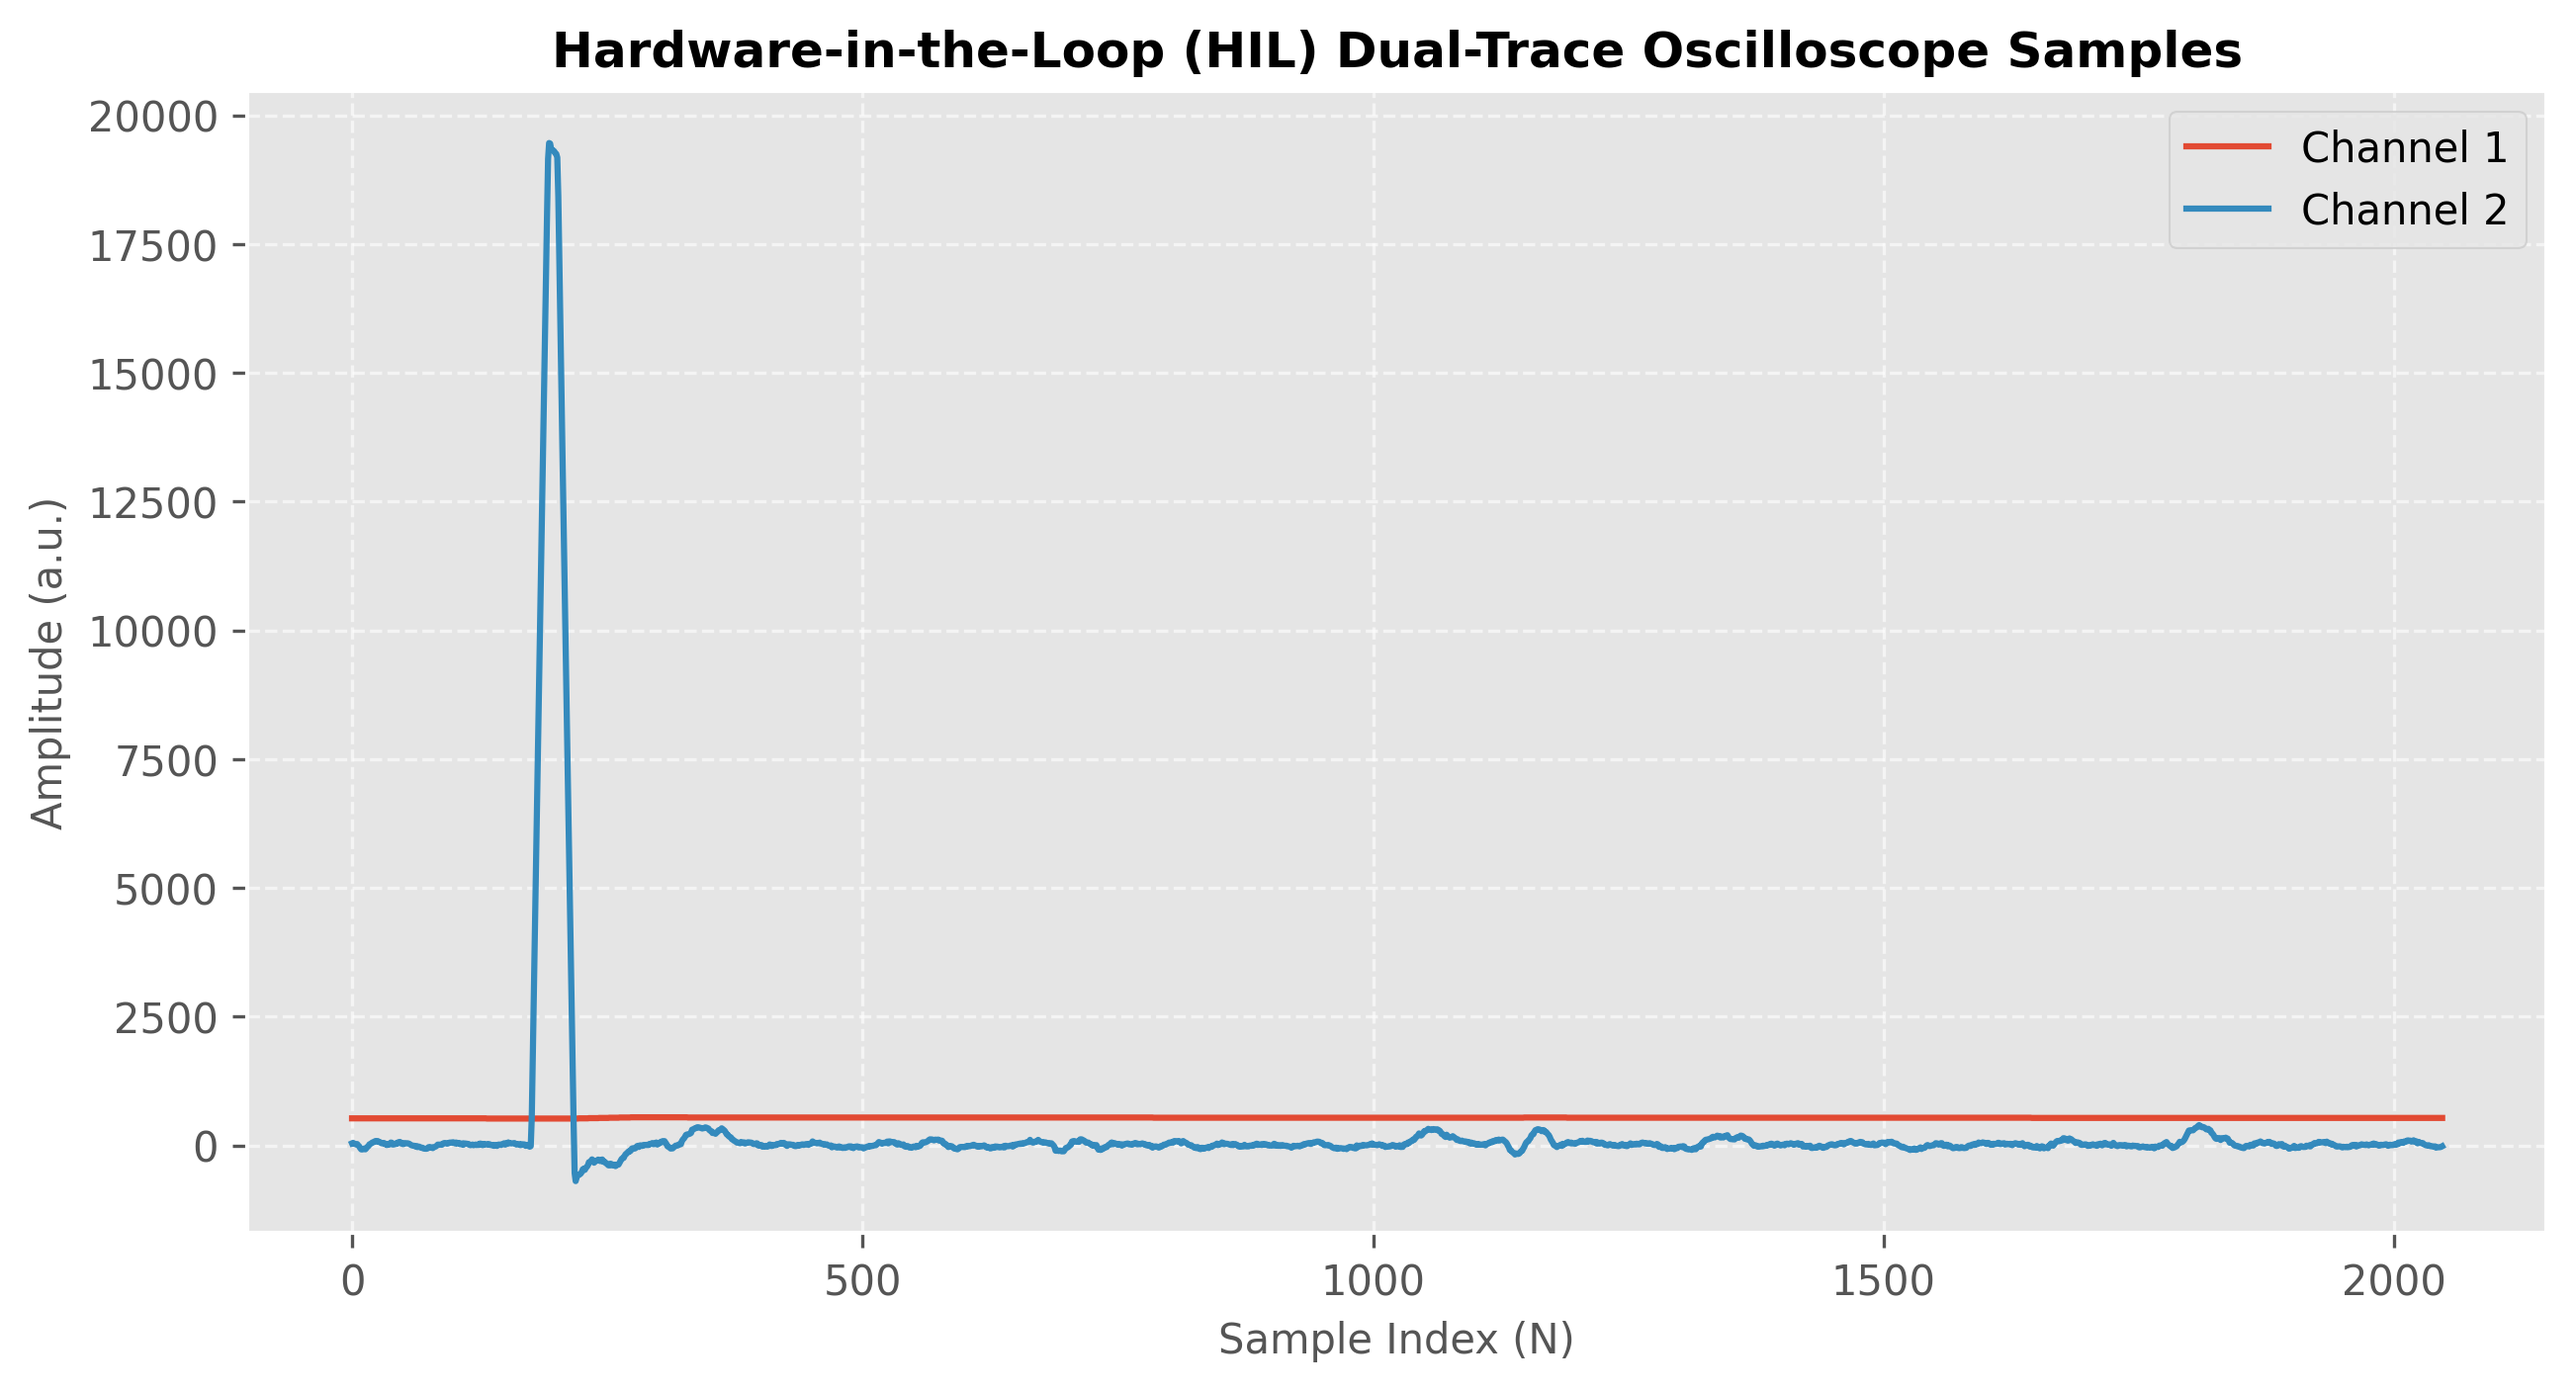
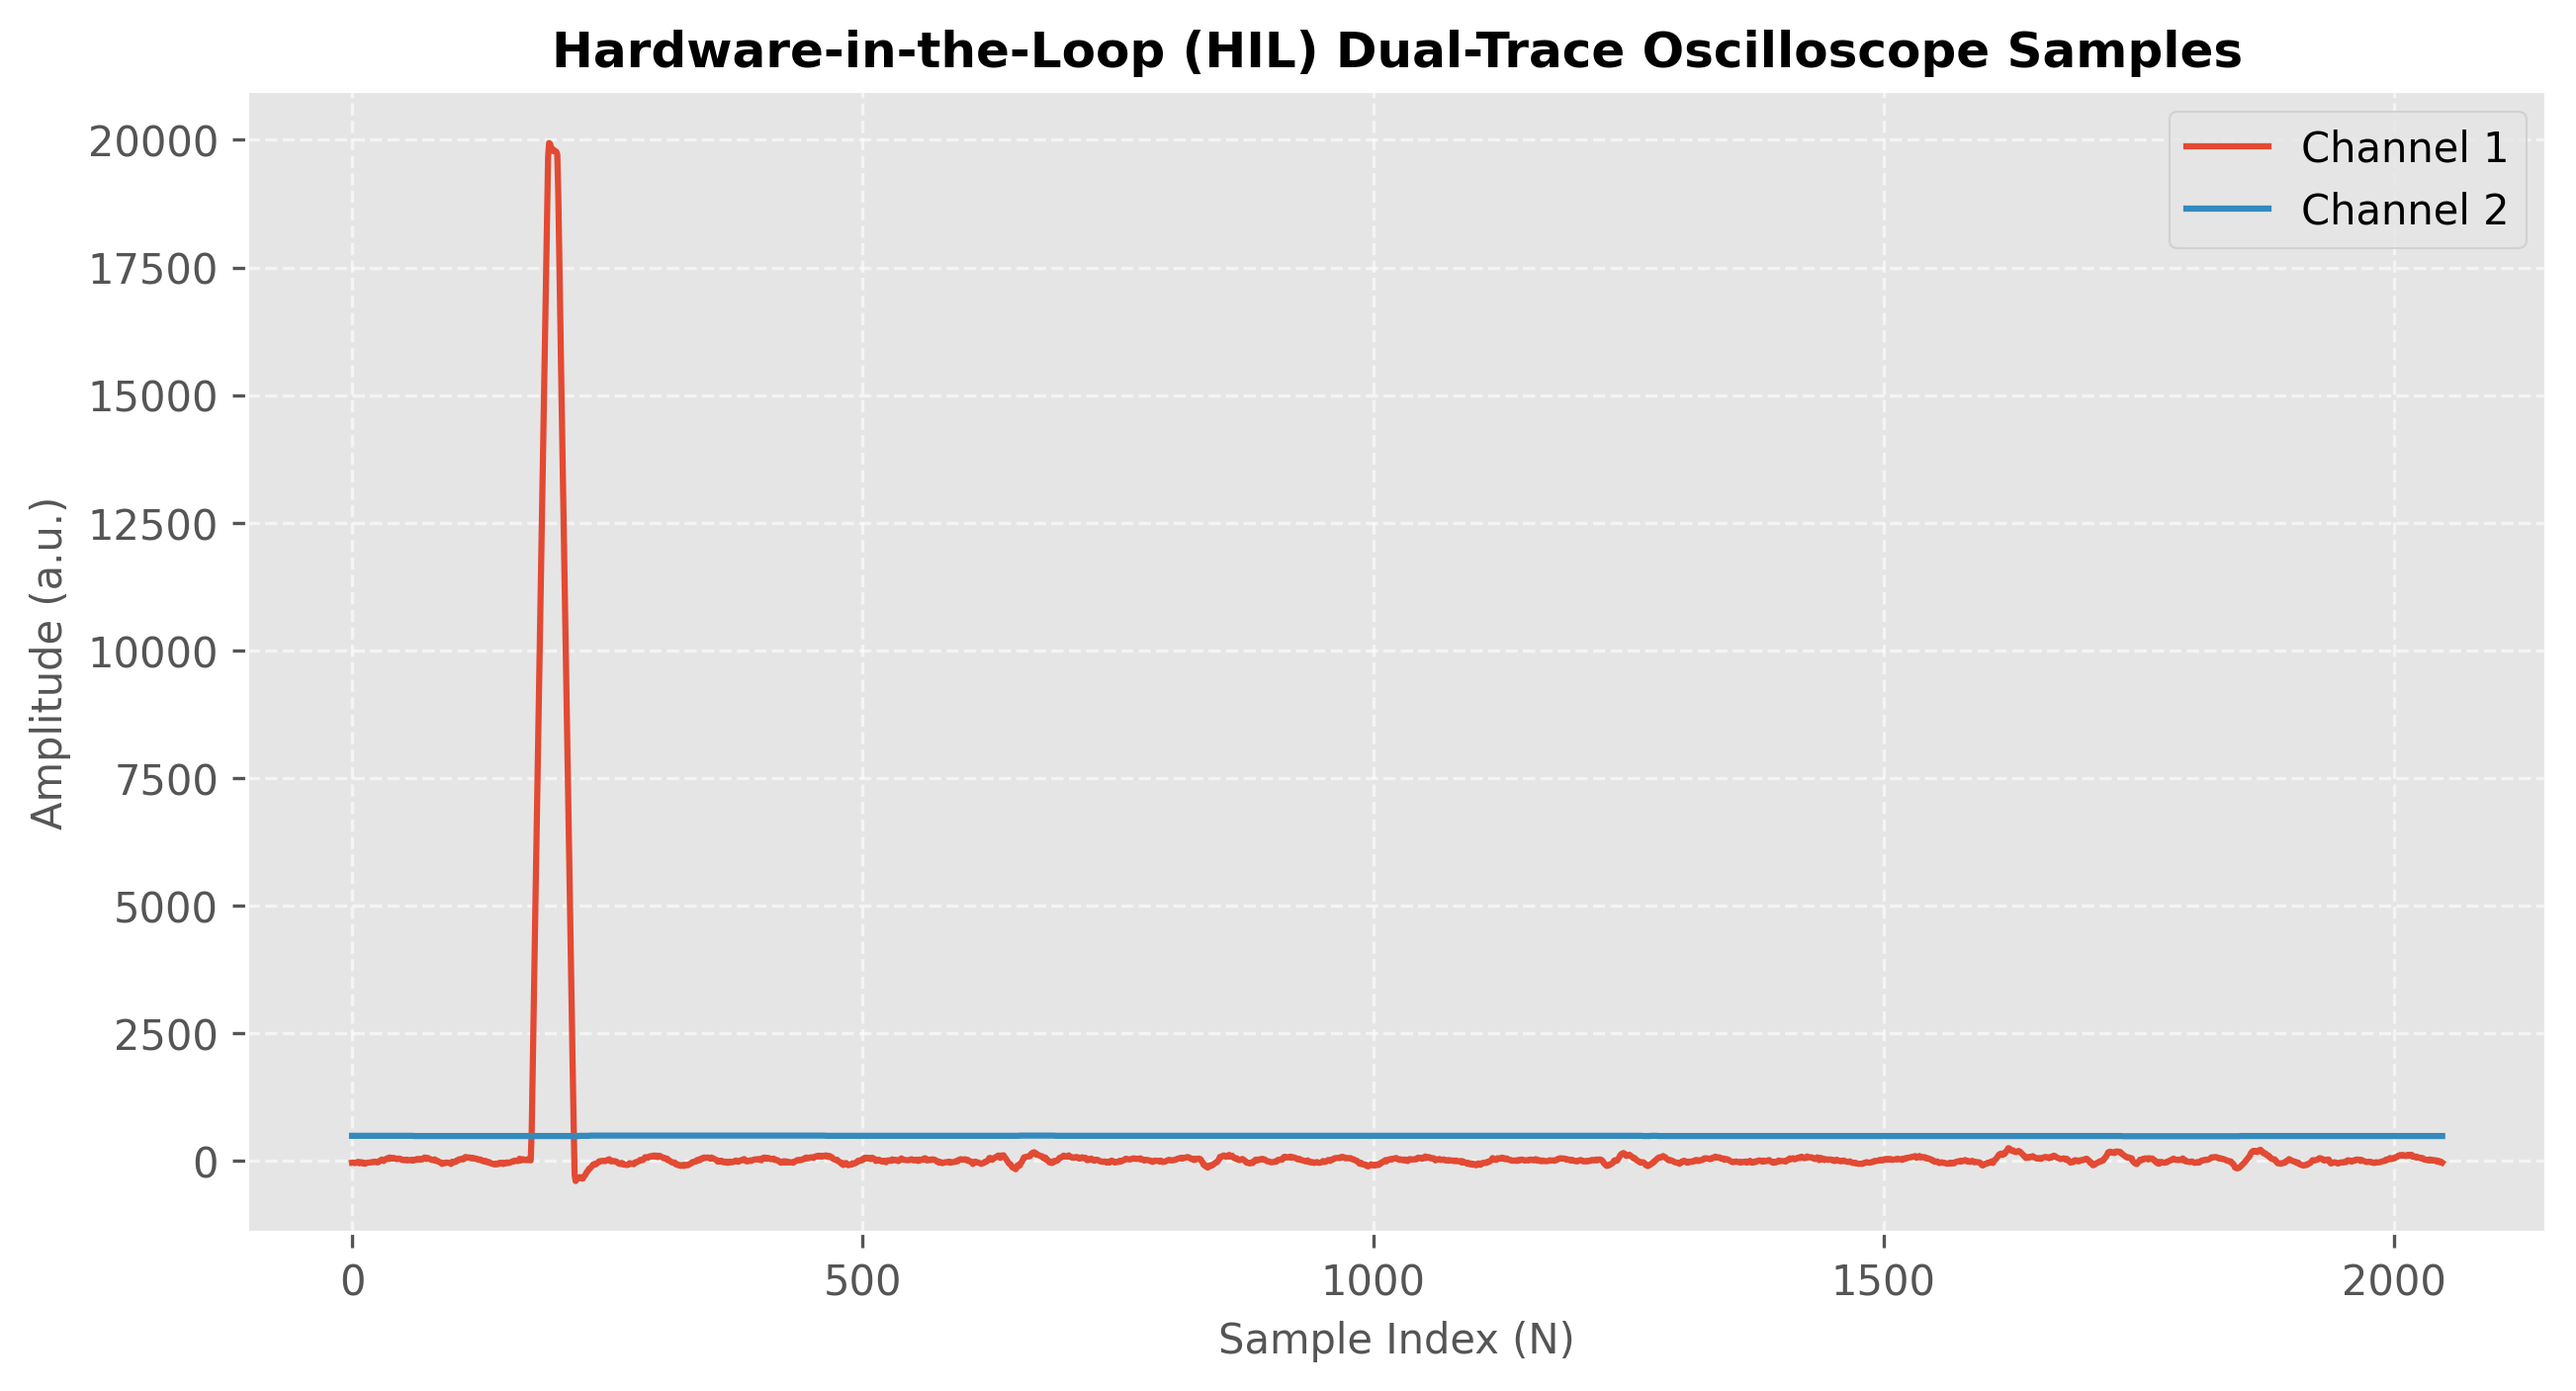
Issue #4: added DppParameters constructor params information

diff --git a/sw/python-api/core/dpp_parameters.py b/sw/python-api/core/dpp_parameters.py
@@ -1793,21 +1793,61 @@ class DppParameters:
             sampling_rate (float): Sampling rate of the ADC
             tau_d (float): Decay time constant of the detector (in seconds)
             tau_r (float): Rise time constant of the detector (in seconds)
-            tau_pk (float): Peaking time (in seconds)
-            tau_pk_top (float): Flat top time (in seconds)
-            tau_pk_fast (float): Peaking time for fast shaper (in seconds)
-            tau_pk_top_fast (float): Flat top time for fast shaper (in seconds)
-            threshold_gain (float, optional): Gain for high threshold. Defaults to 2.0.
-            threshold_gain_fast (float, optional): Gain for high threshold for fast peak detector. Defaults to 1.5.
-            threshold_low_gain (float, optional): Gain for low threshold. Defaults to 2.0.
-            blanking_time_factor (float, optional): Blanking time factor. Defaults to 0.9.
-            time_over_threshold_factor (float, optional): Time over threshold factor. Defaults to 0.44.
-            x_min (float, optional): Minimum value for the output. Defaults to 0.01.
-            x_max (float, optional): Maximum value for the output. Defaults to 1.99.
-            invert_pulse (bool, optional): Invert original pulse before shaping. Defaults to False.
-            dc_offset (float, optional): Signal input DC offset. Defaults to -0.77.
-            poles (int, optional): Number of poles in the pulse shaper filter. Defaults to 2.
-            tau_l (float, optional): Long undershoot constant (in seconds, for PMT only). Defaults to 50e-6.
+            shaper_s_tau_pk (float, optional): Peaking time for slow shaper (in seconds). Defaults to 2.0e-6.
+            shaper_s_tau_pk_top (float, optional): Flat top time for slow shaper (in seconds). Defaults to 1.0e-6.
+            shaper_f_tau_pk (float, optional): Peaking time for fast shaper (in seconds). Defaults to 0.3e-6.
+            shaper_f_tau_pk_top (float, optional): Flat top time for fast shaper (in seconds). Defaults to 0.
+            shaper_s_gain (float, optional): Gain for slow shaper. Defaults to 1.0.
+            shaper_f_gain (float, optional): Gain for fast shaper. Defaults to 1.0.
+            blr_s_threshold_high (float, optional): High threshold for slow baseline restorer (in Volts). Defaults to 0.0.
+            blr_s_threshold_low (float, optional): Low threshold for slow baseline restorer (in Volts). Defaults to -0.05.
+            blr_s_threshold_gain (float, optional): Gain for high threshold for slow baseline restorer. Defaults to 2.5.
+            blr_s_threshold_low_gain (float, optional): Gain for low threshold for slow baseline restorer. Defaults to 50.0.
+            blr_s_enable (bool, optional): Enable slow baseline restorer. Defaults to True.
+            blr_f_threshold_high (float, optional): High threshold for fast baseline restorer (in Volts). Defaults to 0.0.
+            blr_f_threshold_low (float, optional): Low threshold for fast baseline restorer (in Volts). Defaults to -0.05.
+            blr_f_threshold_gain (float, optional): Gain for high threshold for fast baseline restorer. Defaults to 1.5.
+            blr_f_threshold_low_gain (float, optional): Gain for low threshold for fast baseline restorer. Defaults to 2.0.
+            blr_f_enable (bool, optional): Enable fast baseline restorer. Defaults to False.
+            pkd_blanking_time_factor (float, optional): Blanking time factor for peak detector. Defaults to 0.9.
+            pkd_time_over_threshold_factor (float, optional): Time over threshold factor for peak detector. Defaults to 0.44.
+            pur_guard_time_factor (float, optional): Guard time factor for the pile-up rejector. Defaults to 1.5.
+            pur_enable (bool, optional): Enable the pile-up rejector. Defaults to True.
+            pkd_s_x_min (float, optional): Minimum value (LLD) for slow peak detector (in Volts). Defaults to 0.01.
+            pkd_s_x_max (float, optional): Maximum value (ULD) for slow peak detector (in Volts). Defaults to 1.99.
+            pkd_f_x_min (float, optional): Minimum value (LLD) for fast peak detector (in Volts). Defaults to 0.025.
+            pkd_f_x_max (float, optional): Maximum value (ULD) for fast peak detector (in Volts). Defaults to 1.957.
+            invert_pulse (bool, optional): Invert pulse polarity. Defaults to False.
+            smoothing_factor (int, optional): Smoothing factor (moving average). Valid 1, 2, 4, 8. Defaults to 1.
+            dc_offset (float, optional): Input signal DC offset (in Volts). Range [-2.0, 2.0]. Defaults to -0.77.
+            poles (int, optional): Number of poles for the shaper to compensate PMT long tail. Defaults to 2 (SiPM).
+            tau_l (float, optional): Long undershoot constant for PMT (in seconds). Defaults to 50.0e-6.
+            scope_bram_size (int, optional): Size of the scope buffer (in samples). Defaults to 2048.
+            scope_threshold (float, optional): Scope threshold (in Volts). Defaults to 0.04.
+            scope_delay (float, optional): Scope delay (in samples). Defaults to 1000.
+            scope_enabled (bool, optional): Enable scope. Defaults to True.
+            scope_clear (bool, optional): Clear scope buffer before first stream. Defaults to True.
+            scope_downsample (int, optional): Scope downsample factor. Defaults to 1.
+            scope_sampling_mode_flag (bool, optional): Scope sampling mode flag. Defaults to 1. See documentation
+            scope_mux_ch1 (int, optional): Scope mux channel 1. Defaults to 3.
+            scope_mux_ch2 (int, optional): Scope mux channel 2. Defaults to 2.
+            timers_preset (int, optional): Timer collection time (in milliseconds). Defaults to 10000000.
+            timers_auto_mode (bool, optional): Timer auto mode (ping-ping buffer in MCA). Defaults to False.
+            timers_a_live_time (bool, optional): Measure Live Time with Timer A (instead of Real Time). Defaults to False.
+            timers_b_live_time (bool, optional): Measure Live Time with Timer B (instead of Real Time). Defaults to False.
+            timers_c_live_time (bool, optional): Measure Live Time with Timer C (instead of Real Time). Defaults to True.
+            timers_a_enable (bool, optional): Enable Timer A. Defaults to True.
+            timers_b_enable (bool, optional): Enable Timer B. Defaults to False.
+            timers_c_enable (bool, optional): Enable Timer C. Defaults to True.
+            timers_a_clear (bool, optional): Clear Timer A before data acquisition. Defaults to False.
+            timers_b_clear (bool, optional): Clear Timer B before data acquisition. Defaults to False.
+            timers_c_clear (bool, optional): Clear Timer C before data acquisition. Defaults to False.
+            high_voltage (float, optional): High voltage output for PMT (in Volts). Defaults to 0.0.
+            vga_board_version (str, optional): Board version, used to configure variable-gain amplifier. Defaults to "B".
+            vga_gain_fine (float, optional): VGA fine gain. Defaults to 1.
+            vga_gain_coarse (float, optional): VGA coarse gain. Defaults to 1.
+
+
         """
         self.shaper_slow = Dpp_Shaper_Slow(
             sampling_rate=sampling_rate,

diff --git a/sw/python-api/tests/test_hil_daq.py b/sw/python-api/tests/test_hil_daq.py
@@ -8,7 +8,7 @@ Description: Hardware-in-the-Loop (HIL) integration test suite running
 
 import pytest, time, logging, os
 import matplotlib.pyplot as plt  # Import for automated spectrum visualization
-from tqdm import tqdm
+from tqdm import trange
 from core.daq_constants import DppSubmodules
 from core.daq_commands import DaqCommands
 
@@ -117,7 +117,8 @@ def test_hil_phase3_acquisition_and_streaming(daq_api):
 
     # 4. Collect the spectrum for at least 30 seconds
     logger.info("Collecting spectrum for 30 seconds.")
-    time.sleep(30)
+    for i in trange(30, desc="Collecting spectrum...", unit="s"):
+        time.sleep(1)
 
     # 5. Poll again the timer statistics mid-run
     timer_metrics = daq_api.timers_read()
